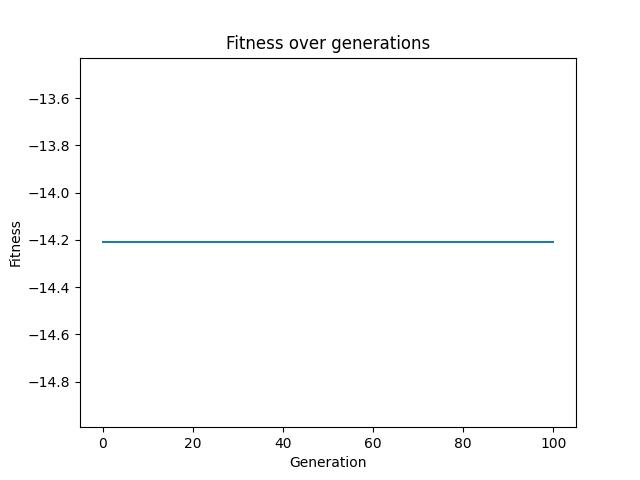
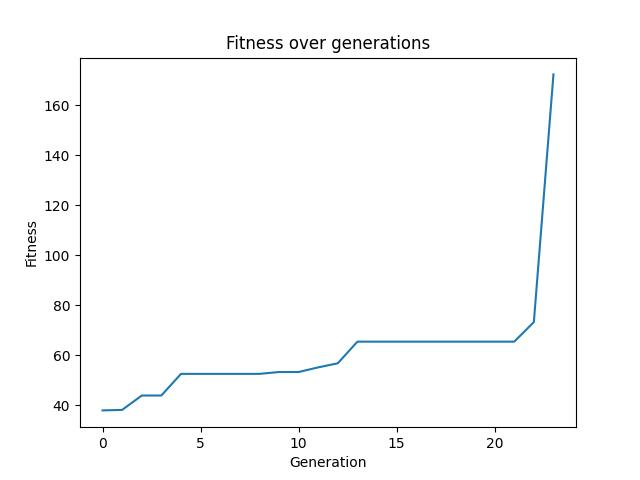
Lab8 ex3 finished and refactored

diff --git a/Lab8/ex3_directory/ex3.py b/Lab8/ex3_directory/ex3.py
@@ -20,20 +20,20 @@ labyrinth = [
 gene_space = [0, 1, 2, 3]
 
 # Parameters of the genetic algorithm
-population_size = 50
+population_size = 1000
 num_generations = 100
-num_parents_mating = 10
+num_parents_mating = 500
 mutation_percent_genes = 5
 
 
 # Fitness function
-def fitness_func(solution, solution_idx):
+def fitness_func(model, solution, solution_idx):
     x, y = 1, 1  # Starting position
     directions = [(0, -1), (0, 1), (-1, 0), (1, 0)]  # up, down, left, right
 
     total_score = 0
     for gene in solution:
-        direction = directions[gene]
+        direction = directions[int(gene)]
         new_x, new_y = x + direction[0], y + direction[1]
 
         # Check if the new position is within the labyrinth boundaries
